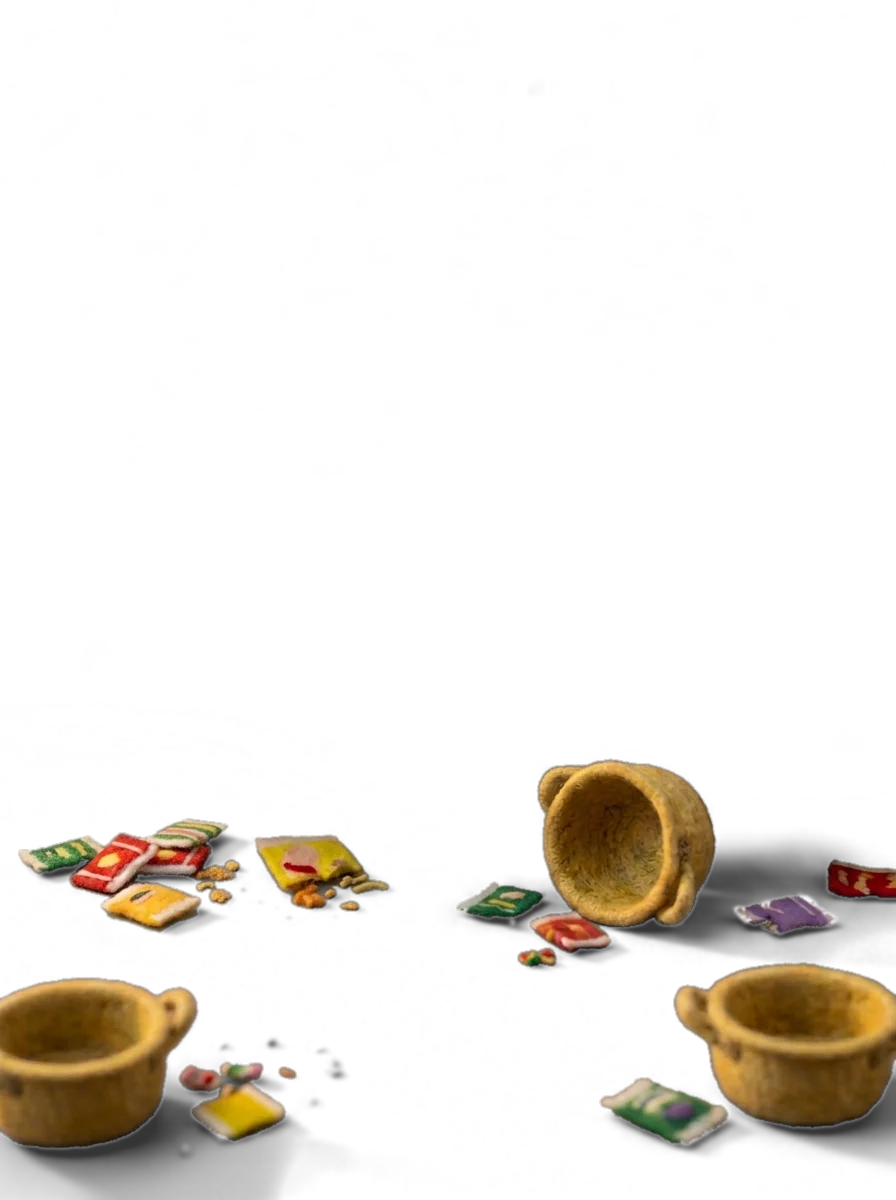
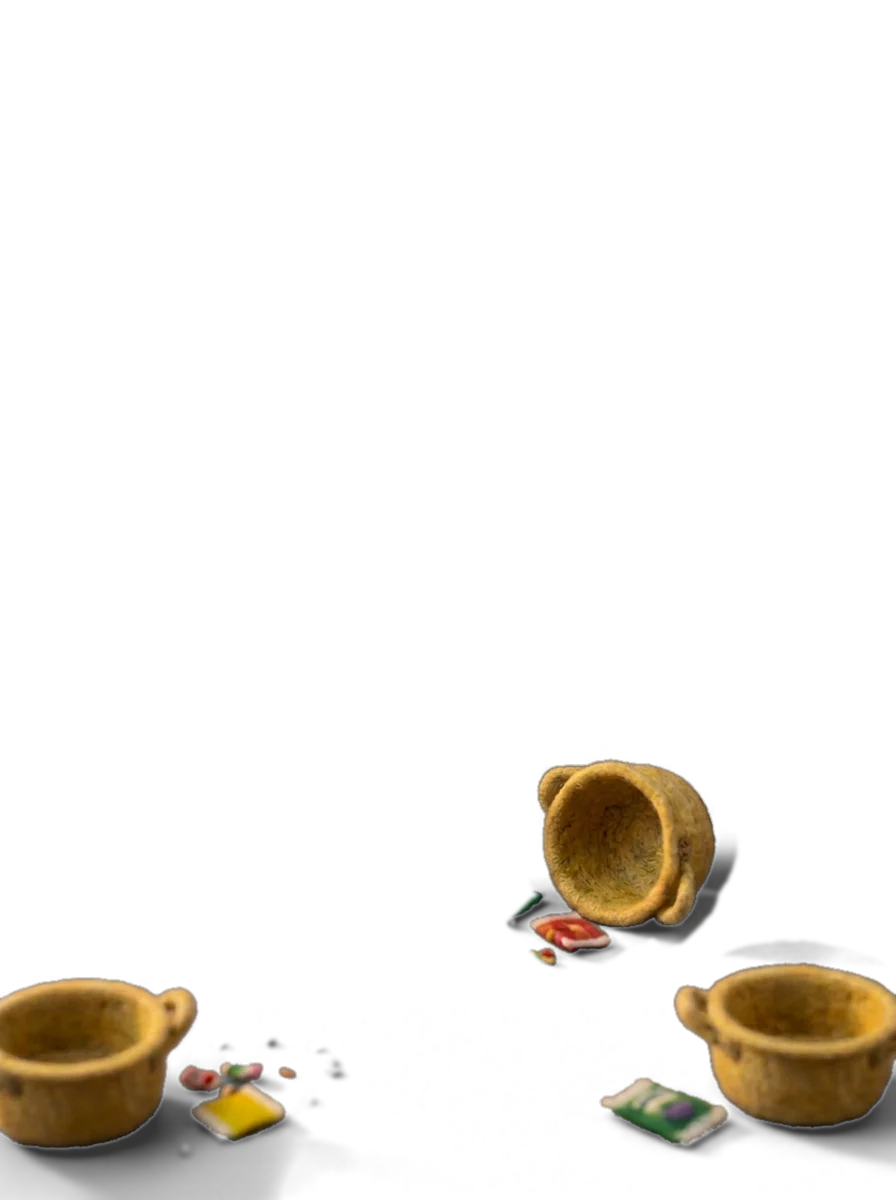
Feast ending: only pots in front of the dragon; floor packets go behind
Claude-Session: https://claude.ai/code/session_013W8aaY5LYoDY942QMaSBcA

diff --git a/index.html b/index.html
@@ -1616,7 +1616,7 @@ let last=0,acc=0,kitchenT=0;
    version of the weapon you won with (or tangled in noodles for Multigrain). Two typed lines, then on to the kitchen. */
 const FW=['chili','drum','shallot','noodle'];
 const FEAST={art:FW.map(n=>img('feast/'+n)),
-  L:{bg:img('feast/l-bg'),piles:img('feast/l-piles'),front:img('feast/l-piles-front'),fg:img('feast/l-fg'),
+  L:{bg:img('feast/l-bg'),piles:img('feast/l-piles'),front:img('feast/l-piles-front'),fg:img('feast/l-fg'),floor:img('feast/l-floor'),
      d:FW.map(n=>img('feast/l-d-'+n)),chew:FW.map(n=>img('feast/l-chew-'+n))},
   cam:{a:{x:448,y:650,z:1.0},b:{x:452,y:620,z:1.09},dur:11},
   lines:['The fire in his belly? Just the chili now.','He saved the drumstick for dessert.','One bite of shallot, and the fire went out.','He never did figure out where the noodles ended.']};
@@ -1637,7 +1637,7 @@ function drawFeast(){const L=FEAST.L,wi=FE.wi,S0=FEAST.cam,T=FE.t,c=iCam(S0,Math
   if(!layered){iLayer(c,S0,0,()=>{const im=FEAST.art[wi]||FEAST.art[0];if(loaded(im))g.drawImage(im,0,0,IW,IH);});}
   else{
     iLayer(c,S0,0,()=>g.drawImage(L.bg,0,0,IW,IH));
-    iLayer(c,S0,.12,()=>g.drawImage(L.piles,0,0,IW,IH));
+    iLayer(c,S0,.12,()=>{g.drawImage(L.piles,0,0,IW,IH);if(loaded(L.floor))g.drawImage(L.floor,0,0,IW,IH);});
     /* the dragon: slow happy breathing, chew frames, a little squash on each bite, anchored at his coil */
     iLayer(c,S0,.22,()=>{const [chew,sq]=feastChew(T),br=Math.sin(T*2.1),im=chew&&loaded(L.chew[wi])?L.chew[wi]:L.d[wi];
       const ax=470,ay=930,sx=1+br*.006+sq*.018,sy=1+br*.01-sq*.026;
